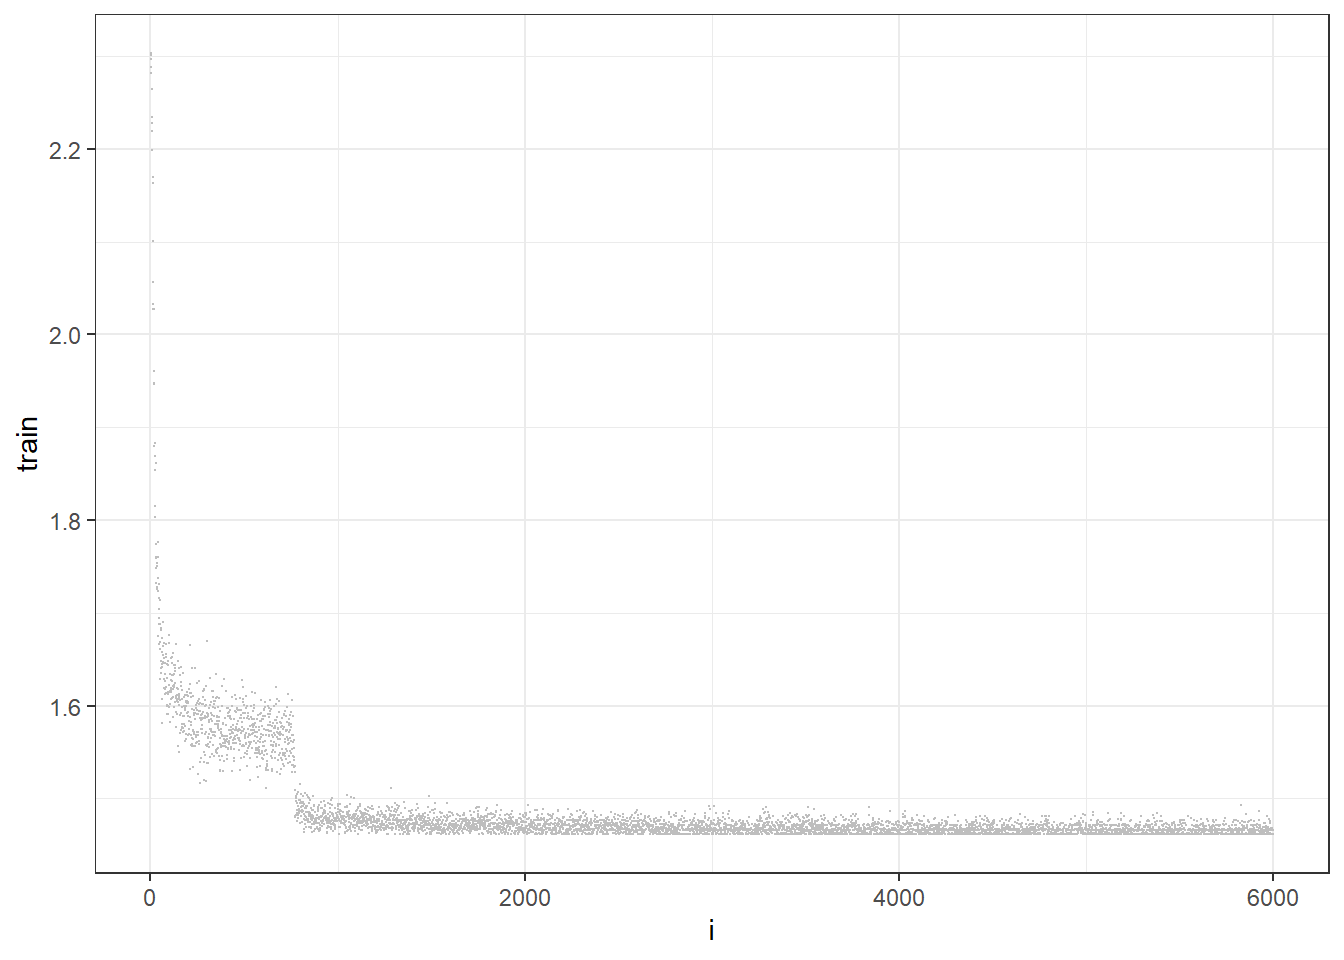
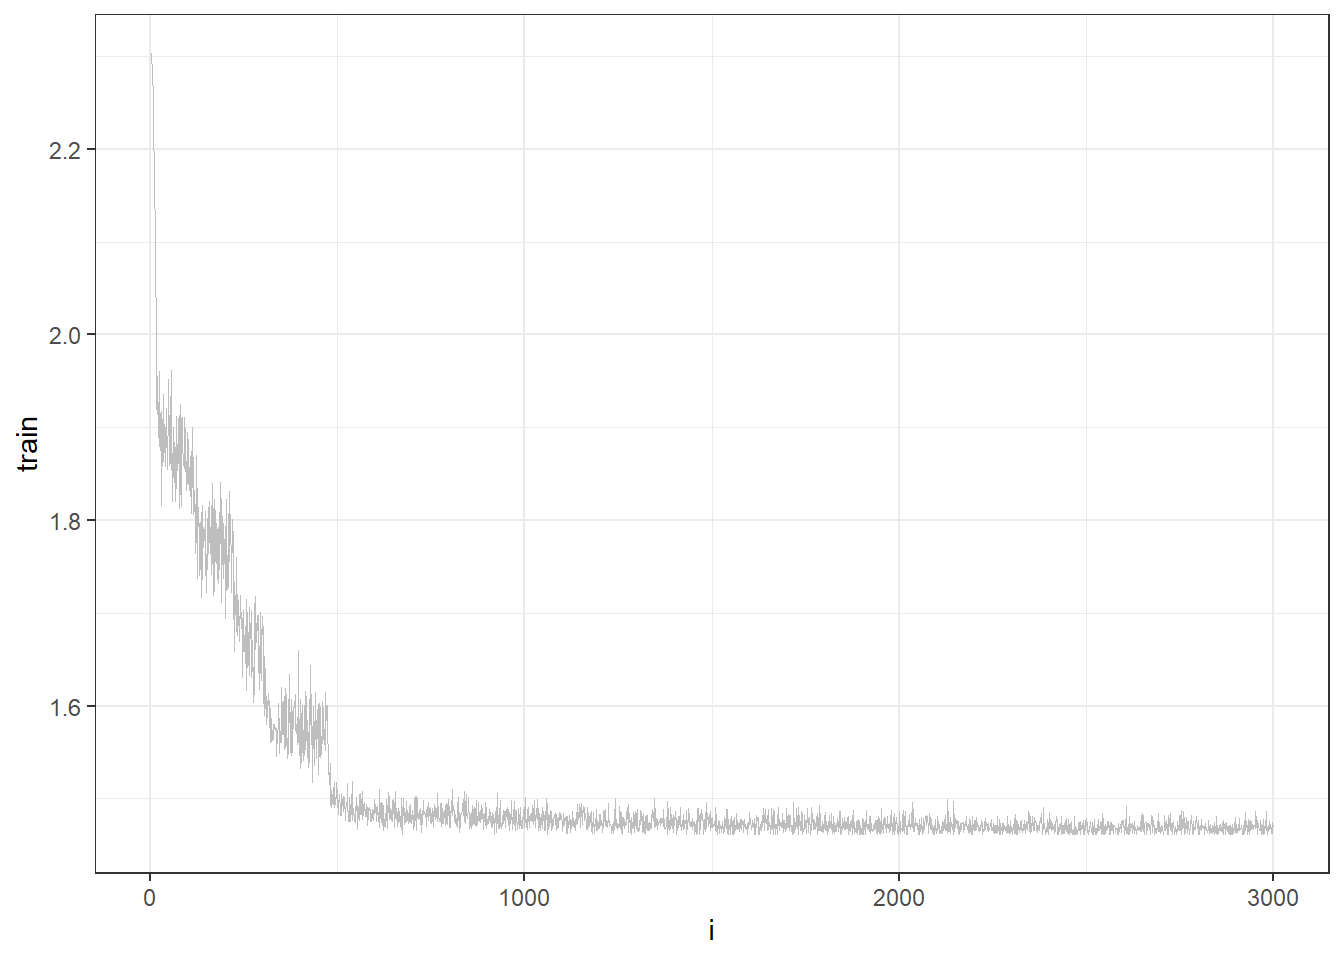
MNIST revised

Changed region(s): [[0.0938, 0.4062, 0.9375, 0.875], [0.375, 0.9062, 0.4062, 0.9688]]

diff --git a/docs/posts/Learning_ChatGPT_3_MNIST/index.html b/docs/posts/Learning_ChatGPT_3_MNIST/index.html
@@ -192,10 +192,10 @@ pre > code.sourceCode > span > a:first-child::before { text-decoration: underlin
 </div>
 <section id="data" class="level3">
 <h3 class="anchored" data-anchor-id="data">Data</h3>
-<p>Data were downloaded using the following command: <code>torchvision::mnist_dataset("./data", download=T)</code>.</p>
+<p>Data were downloaded using the following command: <code>torchvision::mnist_dataset(".", download=T)</code>.</p>
 <div class="cell">
-<div class="sourceCode cell-code" id="cb2"><pre class="sourceCode r code-with-copy"><code class="sourceCode r"><span id="cb2-1"><a href="#cb2-1" aria-hidden="true" tabindex="-1"></a>train <span class="ot">=</span> <span class="fu">readRDS</span>(<span class="st">"C:/Users/jonghoon.kim/Documents/myblog/data/mnist/processed/training.rds"</span>)</span>
-<span id="cb2-2"><a href="#cb2-2" aria-hidden="true" tabindex="-1"></a>test <span class="ot">=</span> <span class="fu">readRDS</span>(<span class="st">"C:/Users/jonghoon.kim/Documents/myblog/data/mnist/processed/test.rds"</span>)</span>
+<div class="sourceCode cell-code" id="cb2"><pre class="sourceCode r code-with-copy"><code class="sourceCode r"><span id="cb2-1"><a href="#cb2-1" aria-hidden="true" tabindex="-1"></a>train <span class="ot">=</span> <span class="fu">readRDS</span>(<span class="st">"training.rds"</span>)</span>
+<span id="cb2-2"><a href="#cb2-2" aria-hidden="true" tabindex="-1"></a>test <span class="ot">=</span> <span class="fu">readRDS</span>(<span class="st">"test.rds"</span>)</span>
 <span id="cb2-3"><a href="#cb2-3" aria-hidden="true" tabindex="-1"></a><span class="co"># train[[1]] indicate numeric values for the image and train[[2]] indicate the correct number</span></span>
 <span id="cb2-4"><a href="#cb2-4" aria-hidden="true" tabindex="-1"></a><span class="fu">dim</span>(train[[<span class="dv">1</span>]])</span></code><button title="Copy to Clipboard" class="code-copy-button"><i class="bi"></i></button></pre></div>
 <div class="cell-output cell-output-stdout">
@@ -352,19 +352,19 @@ pre > code.sourceCode > span > a:first-child::before { text-decoration: underlin
 </div>
 <p>Plot the loss</p>
 <div class="cell">
-<div class="sourceCode cell-code" id="cb17"><pre class="sourceCode r code-with-copy"><code class="sourceCode r"><span id="cb17-1"><a href="#cb17-1" aria-hidden="true" tabindex="-1"></a>train_loss <span class="ot">&lt;-</span> <span class="fu">readRDS</span>(<span class="st">"train_loss.rds"</span>)</span>
-<span id="cb17-2"><a href="#cb17-2" aria-hidden="true" tabindex="-1"></a>test_loss <span class="ot">&lt;-</span> <span class="fu">readRDS</span>(<span class="st">"test_loss.rds"</span>)</span>
+<div class="sourceCode cell-code" id="cb17"><pre class="sourceCode r code-with-copy"><code class="sourceCode r"><span id="cb17-1"><a href="#cb17-1" aria-hidden="true" tabindex="-1"></a><span class="co"># train_loss &lt;- readRDS("train_loss.rds")</span></span>
+<span id="cb17-2"><a href="#cb17-2" aria-hidden="true" tabindex="-1"></a><span class="co"># test_loss &lt;- readRDS("test_loss.rds")</span></span>
 <span id="cb17-3"><a href="#cb17-3" aria-hidden="true" tabindex="-1"></a></span>
 <span id="cb17-4"><a href="#cb17-4" aria-hidden="true" tabindex="-1"></a><span class="fu">tibble</span>(<span class="at">i =</span> <span class="fu">seq</span>(<span class="dv">1</span>, <span class="fu">length</span>(train_loss)), <span class="at">train =</span> train_loss) <span class="sc">%&gt;%</span> </span>
 <span id="cb17-5"><a href="#cb17-5" aria-hidden="true" tabindex="-1"></a>  <span class="fu">ggplot</span>()<span class="sc">+</span></span>
-<span id="cb17-6"><a href="#cb17-6" aria-hidden="true" tabindex="-1"></a>  <span class="fu">geom_point</span>(<span class="fu">aes</span>(i, train), <span class="at">color=</span><span class="st">"gray"</span>, <span class="at">size=</span><span class="fl">0.1</span>)<span class="sc">+</span></span>
+<span id="cb17-6"><a href="#cb17-6" aria-hidden="true" tabindex="-1"></a>  <span class="fu">geom_line</span>(<span class="fu">aes</span>(i, train), <span class="at">color=</span><span class="st">"gray"</span>, <span class="at">size=</span><span class="fl">0.1</span>)<span class="sc">+</span></span>
 <span id="cb17-7"><a href="#cb17-7" aria-hidden="true" tabindex="-1"></a>  <span class="fu">theme_bw</span>()</span></code><button title="Copy to Clipboard" class="code-copy-button"><i class="bi"></i></button></pre></div>
 <div class="cell-output-display">
 <p><img src="index_files/figure-html/unnamed-chunk-9-1.png" class="img-fluid" width="672"></p>
 </div>
 <div class="sourceCode cell-code" id="cb18"><pre class="sourceCode r code-with-copy"><code class="sourceCode r"><span id="cb18-1"><a href="#cb18-1" aria-hidden="true" tabindex="-1"></a><span class="fu">tibble</span>(<span class="at">i =</span> <span class="fu">seq</span>(<span class="dv">1</span>, <span class="fu">length</span>(test_loss)), <span class="at">test =</span> test_loss) <span class="sc">%&gt;%</span> </span>
 <span id="cb18-2"><a href="#cb18-2" aria-hidden="true" tabindex="-1"></a>  <span class="fu">ggplot</span>()<span class="sc">+</span></span>
-<span id="cb18-3"><a href="#cb18-3" aria-hidden="true" tabindex="-1"></a>  <span class="fu">geom_point</span>(<span class="fu">aes</span>(i, test), <span class="at">color=</span><span class="st">"blue"</span>, <span class="at">size=</span><span class="fl">0.1</span>)<span class="sc">+</span></span>
+<span id="cb18-3"><a href="#cb18-3" aria-hidden="true" tabindex="-1"></a>  <span class="fu">geom_line</span>(<span class="fu">aes</span>(i, test), <span class="at">color=</span><span class="st">"blue"</span>, <span class="at">size=</span><span class="fl">0.1</span>)<span class="sc">+</span></span>
 <span id="cb18-4"><a href="#cb18-4" aria-hidden="true" tabindex="-1"></a>  <span class="fu">theme_bw</span>()</span></code><button title="Copy to Clipboard" class="code-copy-button"><i class="bi"></i></button></pre></div>
 <div class="cell-output-display">
 <p><img src="index_files/figure-html/unnamed-chunk-9-2.png" class="img-fluid" width="672"></p>
@@ -390,48 +390,48 @@ pre > code.sourceCode > span > a:first-child::before { text-decoration: underlin
 
           Reference
 Prediction    1    2    3    4    5    6    7    8    9   10
-        1     0    0    0    0    0    0    0    0    0    0
-        2     0    0    0    0    0    0    0    0    0    0
-        3     0    0    0    0    0    0    0    0    0    0
-        4     0    0    0    0    0    0    0    0    0    0
-        5     0    0    0    0    0    0    0    0    0    0
-        6   980 1135 1032 1010  982  892  958 1028  974 1009
-        7     0    0    0    0    0    0    0    0    0    0
-        8     0    0    0    0    0    0    0    0    0    0
-        9     0    0    0    0    0    0    0    0    0    0
-        10    0    0    0    0    0    0    0    0    0    0
+        1   977    0    0    1    0    1    6    0    2    1
+        2     0 1128    2    0    0    0    2    2    0    0
+        3     0    3 1020    1    1    0    0    4    2    1
+        4     0    0    1 1002    0    5    0    1    0    1
+        5     0    0    1    0  974    0    4    0    0    4
+        6     0    1    0    4    0  883    1    1    1    6
+        7     0    0    0    0    0    1  942    0    0    0
+        8     2    3    4    0    0    0    0 1018    1    4
+        9     1    0    4    2    1    1    3    1  967    1
+        10    0    0    0    0    6    1    0    1    1  991
 
 Overall Statistics
                                          
-               Accuracy : 0.0892         
-                 95% CI : (0.0837, 0.095)
+               Accuracy : 0.9902         
+                 95% CI : (0.9881, 0.992)
     No Information Rate : 0.1135         
-    P-Value [Acc &gt; NIR] : 1              
+    P-Value [Acc &gt; NIR] : &lt; 2.2e-16      
                                          
-                  Kappa : 0              
+                  Kappa : 0.9891         
                                          
  Mcnemar's Test P-Value : NA             
 
 Statistics by Class:
 
                      Class: 1 Class: 2 Class: 3 Class: 4 Class: 5 Class: 6
-Sensitivity             0.000   0.0000   0.0000    0.000   0.0000   1.0000
-Specificity             1.000   1.0000   1.0000    1.000   1.0000   0.0000
-Pos Pred Value            NaN      NaN      NaN      NaN      NaN   0.0892
-Neg Pred Value          0.902   0.8865   0.8968    0.899   0.9018      NaN
-Prevalence              0.098   0.1135   0.1032    0.101   0.0982   0.0892
-Detection Rate          0.000   0.0000   0.0000    0.000   0.0000   0.0892
-Detection Prevalence    0.000   0.0000   0.0000    0.000   0.0000   1.0000
-Balanced Accuracy       0.500   0.5000   0.5000    0.500   0.5000   0.5000
+Sensitivity            0.9969   0.9938   0.9884   0.9921   0.9919   0.9899
+Specificity            0.9988   0.9993   0.9987   0.9991   0.9990   0.9985
+Pos Pred Value         0.9889   0.9947   0.9884   0.9921   0.9908   0.9844
+Neg Pred Value         0.9997   0.9992   0.9987   0.9991   0.9991   0.9990
+Prevalence             0.0980   0.1135   0.1032   0.1010   0.0982   0.0892
+Detection Rate         0.0977   0.1128   0.1020   0.1002   0.0974   0.0883
+Detection Prevalence   0.0988   0.1134   0.1032   0.1010   0.0983   0.0897
+Balanced Accuracy      0.9979   0.9966   0.9935   0.9956   0.9954   0.9942
                      Class: 7 Class: 8 Class: 9 Class: 10
-Sensitivity            0.0000   0.0000   0.0000    0.0000
-Specificity            1.0000   1.0000   1.0000    1.0000
-Pos Pred Value            NaN      NaN      NaN       NaN
-Neg Pred Value         0.9042   0.8972   0.9026    0.8991
+Sensitivity            0.9833   0.9903   0.9928    0.9822
+Specificity            0.9999   0.9984   0.9984    0.9990
+Pos Pred Value         0.9989   0.9864   0.9857    0.9910
+Neg Pred Value         0.9982   0.9989   0.9992    0.9980
 Prevalence             0.0958   0.1028   0.0974    0.1009
-Detection Rate         0.0000   0.0000   0.0000    0.0000
-Detection Prevalence   0.0000   0.0000   0.0000    0.0000
-Balanced Accuracy      0.5000   0.5000   0.5000    0.5000</code></pre>
+Detection Rate         0.0942   0.1018   0.0967    0.0991
+Detection Prevalence   0.0943   0.1032   0.0981    0.1000
+Balanced Accuracy      0.9916   0.9944   0.9956    0.9906</code></pre>
 </div>
 </div>
 

diff --git a/docs/index.html b/docs/index.html
@@ -154,7 +154,7 @@ ul.task-list li input[type="checkbox"] {
 
 <div class="quarto-listing quarto-listing-container-default" id="listing-listing">
 <div class="list quarto-listing-default">
-<div class="quarto-post image-right" data-index="0" data-categories="Neural network,MNIST,CNN" data-listing-date-sort="1718463600000" data-listing-file-modified-sort="1718686354148" data-listing-date-modified-sort="NaN" data-listing-reading-time-sort="5">
+<div class="quarto-post image-right" data-index="0" data-categories="Neural network,MNIST,CNN" data-listing-date-sort="1718463600000" data-listing-file-modified-sort="1718691023100" data-listing-date-modified-sort="NaN" data-listing-reading-time-sort="5">
 <div class="thumbnail">
 <p><a href="./posts/Learning_ChatGPT_3_MNIST/index.html"> <img src="./posts/Learning_ChatGPT_3_MNIST/mnist_five.png" class="thumbnail-image"> </a></p>
 </div>

diff --git a/docs/about.html b/docs/about.html
@@ -7,7 +7,7 @@
 <meta name="viewport" content="width=device-width, initial-scale=1.0, user-scalable=yes">
 
 
-<title>Jong-Hoon Kim’s Blog - About</title>
+<title>Disease modeling for public health - About</title>
 <style>
 code{white-space: pre-wrap;}
 span.smallcaps{font-variant: small-caps;}
@@ -71,7 +71,7 @@ ul.task-list li input[type="checkbox"] {
       <div class="navbar-container container-fluid">
       <div class="navbar-brand-container">
     <a class="navbar-brand" href="./index.html">
-    <span class="navbar-title">Jong-Hoon Kim’s Blog</span>
+    <span class="navbar-title">Disease modeling for public health</span>
     </a>
   </div>
             <div id="quarto-search" class="" title="Search"></div>
